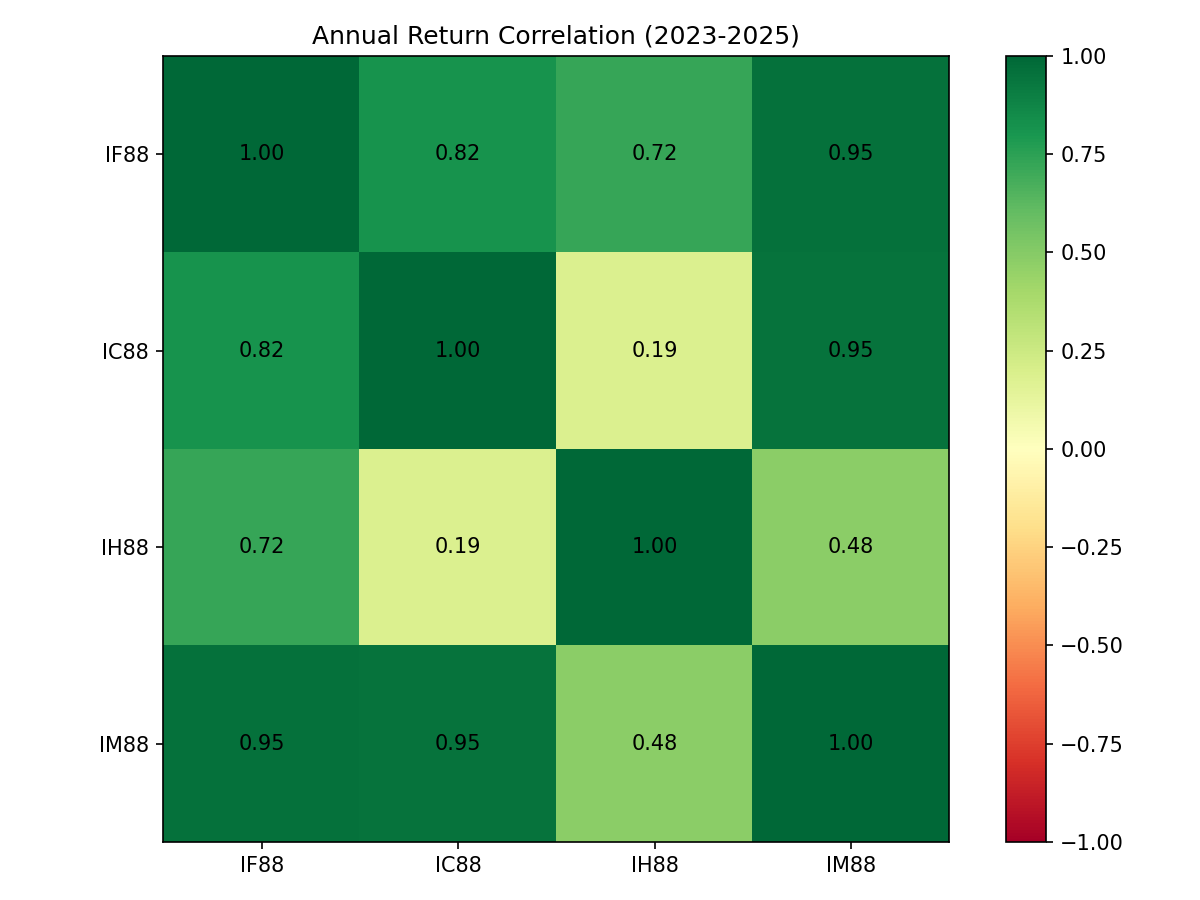
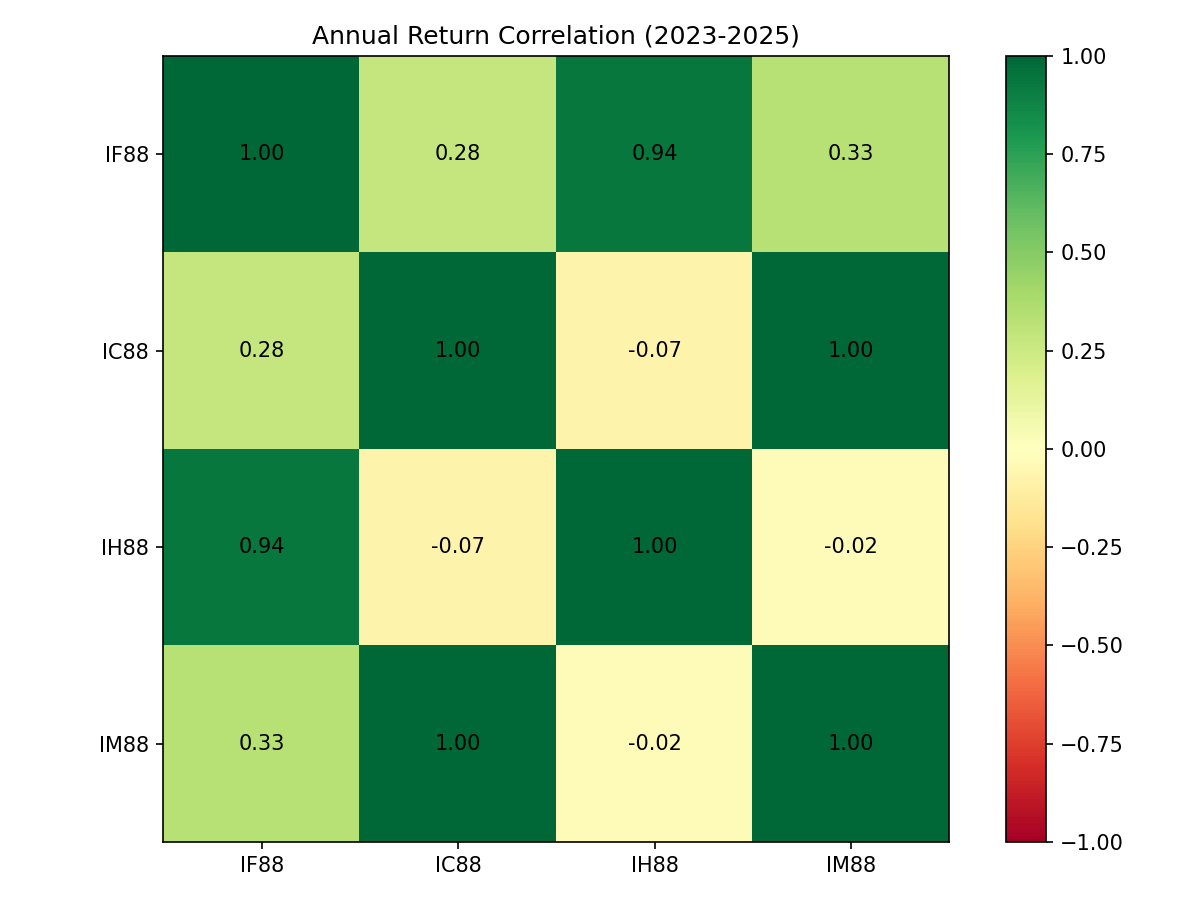
docs: update LDT CN index futures deep dive v6 (plateau + ensemble)

diff --git a/wiki/ldt_cn_index_futures_2015.md b/wiki/ldt_cn_index_futures_2015.md
@@ -1,6 +1,6 @@
 # LDT 在四大股指期货上的深度挖掘报告（IF88/IC88/IH88/IM88）
 
-> **Report Date**: 2026-06-27 20:32
+> **Report Date**: 2026-06-28 13:03
 > **Strategy**: LimitedDualThrustStrategy (LDT)
 > **Symbols**: IF88.CFFEX, IC88.CFFEX, IH88.CFFEX, IM88.CFFEX
 > **Period**: 2015-01-01 ~ 2025-12-31 (Rolling WFO) + 2026-01-01 ~ 2026-06-25 (Forward Test)
@@ -17,18 +17,18 @@
 
 | 品种 | IS Sharpe | Rolling Avg Test Sharpe | Concat OOS Sharpe | Deployable | 2026 Forward Sharpe |
 |------|-----------|-------------------------|-------------------|------------|---------------------|
-| IF88 | 1.54 | 0.68 | 0.75 | True | -1.60 |
-| IC88 | 1.70 | 0.30 | 0.53 | False | 0.38 |
-| IH88 | 1.13 | 0.31 | 0.37 | True | -2.04 |
-| IM88 | 1.77 | 0.56 | 0.46 | True | 0.37 |
+| IF88 | 1.54 | 0.88 | 0.91 | True | -1.60 |
+| IC88 | 1.70 | 0.59 | 0.81 | True | 1.18 |
+| IH88 | 1.13 | 0.38 | 0.45 | True | -2.04 |
+| IM88 | 1.77 | 0.36 | 0.26 | True | 0.37 |
 
 ### 组合效应
 
 | 组合 | 2023-2025 年均收益 | 年化波动 | 收益/波动 | 2026 前向收益 |
 |------|-------------------|----------|-----------|---------------|
-| IC+IM | 8.11% | 12.27% | 0.66 | 3.07% |
-| IF+IC+IH+IM | 4.75% | 9.34% | 0.51 | -0.87% |
-| IF+IH | 1.40% | 8.31% | 0.17 | -4.80% |
+| IC+IM | 17.30% | 25.76% | 0.67 | 5.23% |
+| IF+IC+IH+IM | 11.26% | 16.87% | 0.67 | 0.22% |
+| IF+IH | 5.23% | 18.28% | 0.29 | -4.80% |
 
 ---
 
@@ -59,84 +59,84 @@
 | 指标 | 数值 |
 |------|------|
 | 窗口数 | 8 |
-| WFE | 0.40 |
+| WFE | 0.58 |
 | Consistency | 87.5% |
-| Avg Test Sharpe | 0.68 |
-| Concatenated OOS Sharpe | 0.75 |
-| 过拟合风险 | moderate |
+| Avg Test Sharpe | 0.88 |
+| Concatenated OOS Sharpe | 0.91 |
+| 过拟合风险 | low |
 | Deployable | **True** |
 
 | 窗口 | Test 期 | Test Sharpe | Test Return | Test Trades |
 |------|---------|-------------|-------------|---------------|
-| W1 | 2017-12-31 ~ 2018-12-31 | 0.62 | 5.54% | 1032 |
-| W2 | 2018-12-31 ~ 2019-12-31 | 1.24 | 12.97% | 1254 |
-| W3 | 2019-12-31 ~ 2020-12-30 | 0.60 | 7.59% | 876 |
-| W4 | 2020-12-31 ~ 2021-12-31 | 0.83 | 9.08% | 544 |
-| W5 | 2021-12-31 ~ 2022-12-31 | 1.48 | 13.25% | 534 |
-| W6 | 2022-12-31 ~ 2023-12-31 | 0.31 | 2.33% | 404 |
-| W7 | 2023-12-31 ~ 2024-12-30 | 1.35 | 13.20% | 658 |
-| W8 | 2024-12-31 ~ 2025-12-31 | -1.03 | -7.18% | 430 |
+| W1 | 2017-12-31 ~ 2018-12-31 | 1.44 | 21.33% | 650 |
+| W2 | 2018-12-31 ~ 2019-12-31 | 0.76 | 20.14% | 1590 |
+| W3 | 2019-12-31 ~ 2020-12-30 | 0.59 | 15.19% | 876 |
+| W4 | 2020-12-31 ~ 2021-12-31 | 0.97 | 22.55% | 656 |
+| W5 | 2021-12-31 ~ 2022-12-31 | 1.79 | 34.62% | 648 |
+| W6 | 2022-12-31 ~ 2023-12-31 | 1.15 | 18.04% | 476 |
+| W7 | 2023-12-31 ~ 2024-12-30 | 1.36 | 26.40% | 658 |
+| W8 | 2024-12-31 ~ 2025-12-31 | -1.05 | -14.37% | 430 |
 ### IC88
 
 | 指标 | 数值 |
 |------|------|
 | 窗口数 | 8 |
-| WFE | 0.16 |
+| WFE | 0.45 |
 | Consistency | 62.5% |
-| Avg Test Sharpe | 0.30 |
-| Concatenated OOS Sharpe | 0.53 |
+| Avg Test Sharpe | 0.59 |
+| Concatenated OOS Sharpe | 0.81 |
 | 过拟合风险 | moderate |
-| Deployable | **False** |
+| Deployable | **True** |
 
 | 窗口 | Test 期 | Test Sharpe | Test Return | Test Trades |
 |------|---------|-------------|-------------|---------------|
-| W1 | 2017-12-31 ~ 2018-12-31 | -0.70 | -7.03% | 978 |
-| W2 | 2018-12-31 ~ 2019-12-31 | 0.35 | 3.94% | 1328 |
-| W3 | 2019-12-31 ~ 2020-12-30 | 2.77 | 38.50% | 1304 |
-| W4 | 2020-12-31 ~ 2021-12-31 | -2.72 | -29.44% | 878 |
-| W5 | 2021-12-31 ~ 2022-12-31 | 0.82 | 12.99% | 1116 |
-| W6 | 2022-12-31 ~ 2023-12-31 | -0.55 | -3.61% | 420 |
-| W7 | 2023-12-31 ~ 2024-12-30 | 2.25 | 33.27% | 662 |
-| W8 | 2024-12-31 ~ 2025-12-31 | 0.15 | 1.62% | 396 |
+| W1 | 2017-12-31 ~ 2018-12-31 | -0.37 | -9.29% | 1500 |
+| W2 | 2018-12-31 ~ 2019-12-31 | 0.10 | 2.23% | 2106 |
+| W3 | 2019-12-31 ~ 2020-12-30 | 2.70 | 77.01% | 1304 |
+| W4 | 2020-12-31 ~ 2021-12-31 | -2.25 | -43.53% | 618 |
+| W5 | 2021-12-31 ~ 2022-12-31 | 1.51 | 34.91% | 930 |
+| W6 | 2022-12-31 ~ 2023-12-31 | -0.54 | -7.22% | 420 |
+| W7 | 2023-12-31 ~ 2024-12-30 | 2.24 | 66.53% | 662 |
+| W8 | 2024-12-31 ~ 2025-12-31 | 1.32 | 23.93% | 828 |
 ### IH88
 
 | 指标 | 数值 |
 |------|------|
 | 窗口数 | 8 |
-| WFE | 0.36 |
+| WFE | 0.38 |
 | Consistency | 87.5% |
-| Avg Test Sharpe | 0.31 |
-| Concatenated OOS Sharpe | 0.37 |
+| Avg Test Sharpe | 0.38 |
+| Concatenated OOS Sharpe | 0.45 |
 | 过拟合风险 | moderate |
 | Deployable | **True** |
 
 | 窗口 | Test 期 | Test Sharpe | Test Return | Test Trades |
 |------|---------|-------------|-------------|---------------|
-| W1 | 2017-12-31 ~ 2018-12-31 | 1.03 | 5.03% | 672 |
-| W2 | 2018-12-31 ~ 2019-12-31 | 0.92 | 6.32% | 520 |
-| W3 | 2019-12-31 ~ 2020-12-30 | 0.58 | 4.36% | 540 |
-| W4 | 2020-12-31 ~ 2021-12-31 | 0.34 | 3.77% | 644 |
-| W5 | 2021-12-31 ~ 2022-12-31 | 0.17 | 1.33% | 846 |
-| W6 | 2022-12-31 ~ 2023-12-31 | 0.96 | 5.93% | 638 |
-| W7 | 2023-12-31 ~ 2024-12-30 | 0.41 | 2.80% | 758 |
-| W8 | 2024-12-31 ~ 2025-12-31 | -1.97 | -8.68% | 262 |
+| W1 | 2017-12-31 ~ 2018-12-31 | 1.03 | 10.06% | 672 |
+| W2 | 2018-12-31 ~ 2019-12-31 | 1.20 | 17.38% | 604 |
+| W3 | 2019-12-31 ~ 2020-12-30 | 0.54 | 10.73% | 834 |
+| W4 | 2020-12-31 ~ 2021-12-31 | 0.36 | 8.04% | 682 |
+| W5 | 2021-12-31 ~ 2022-12-31 | 0.36 | 5.70% | 886 |
+| W6 | 2022-12-31 ~ 2023-12-31 | 1.09 | 11.86% | 764 |
+| W7 | 2023-12-31 ~ 2024-12-30 | 0.50 | 6.79% | 638 |
+| W8 | 2024-12-31 ~ 2025-12-31 | -2.01 | -17.36% | 262 |
 ### IM88
 
 | 指标 | 数值 |
 |------|------|
 | 窗口数 | 3 |
-| WFE | 0.18 |
-| Consistency | 100.0% |
-| Avg Test Sharpe | 0.56 |
-| Concatenated OOS Sharpe | 0.46 |
+| WFE | 0.06 |
+| Consistency | 66.7% |
+| Avg Test Sharpe | 0.36 |
+| Concatenated OOS Sharpe | 0.26 |
 | 过拟合风险 | moderate |
 | Deployable | **True** |
 
 | 窗口 | Test 期 | Test Sharpe | Test Return | Test Trades |
 |------|---------|-------------|-------------|---------------|
-| W6 | 2022-12-31 ~ 2023-12-31 | 0.41 | 3.94% | 388 |
-| W7 | 2023-12-31 ~ 2024-12-30 | 1.15 | 11.20% | 440 |
-| W8 | 2024-12-31 ~ 2025-12-31 | 0.13 | 2.24% | 1040 |
+| W6 | 2022-12-31 ~ 2023-12-31 | -0.24 | -6.31% | 586 |
+| W7 | 2023-12-31 ~ 2024-12-30 | 1.18 | 22.41% | 440 |
+| W8 | 2024-12-31 ~ 2025-12-31 | 0.14 | 4.48% | 1040 |
 
 ![WFO Window Sharpe](ldt_cn_index_futures_2015/wfo_window_sharpe.png)
 
@@ -146,9 +146,9 @@
 
 | 年份 | IF88 | IC88 | IH88 | IM88 |
 |------|------|------|------|------|
-| 2023 | 2.33% | -3.61% | 5.93% | 3.94% |
-| 2024 | 13.20% | 33.27% | 2.80% | 11.20% |
-| 2025 | -7.18% | 1.62% | -8.68% | 2.24% |
+| 2023 | 18.04% | -7.22% | 11.86% | -6.31% |
+| 2024 | 26.40% | 66.53% | 6.79% | 22.41% |
+| 2025 | -14.37% | 23.93% | -17.36% | 4.48% |
 
 ![Correlation Matrix](ldt_cn_index_futures_2015/correlation_matrix.png)
 
@@ -166,7 +166,7 @@
 | 品种 | Sharpe | Return | Max DD | Trades |
 |------|--------|--------|--------|--------|
 | IF88 | -1.60 | -5.34% | -9.02% | 204 |
-| IC88 | 0.38 | 2.35% | -5.65% | 212 |
+| IC88 | 1.18 | 6.67% | -8.94% | 464 |
 | IH88 | -2.04 | -4.26% | -6.84% | 122 |
 | IM88 | 0.37 | 3.79% | -9.87% | 558 |
 

diff --git a/index.md b/index.md
@@ -52,6 +52,7 @@
     39|
     40|## 📥 最新录入
 
+- 2026-06-28: LDT 在四大股指期货上的深度挖掘 v6（参数平原选择 + Top-N 集成） — [[ldt_cn_index_futures_2015]]
 - 2026-06-26: CtaTrendStrategy 趋势品种（T/RB/I/J）验证 — [[CtaTrend_Trend_Universe_Validation_20260626]]
 - 2026-06-26: CtaTrendStrategy Expanding vs Rolling 对比 — [[CtaTrend_Expanding_vs_Rolling_Comparison_20260626]]
 - 2026-06-26: CtaTrendStrategy CN 期货深度挖掘（rolling + 扩大参数） — [[CtaTrend_CN_Futures_Deep_Mine_Rolling_20260626]]
@@ -521,7 +522,7 @@ cta_developer 中的策略代码资产与批量挖掘结果。
    324|
    325|
 ## 最新录入
-- [LDT 在四大股指期货上的深度挖掘（IF88/IC88/IH88/IM88）](wiki/ldt_cn_index_futures_2015.md) — 2026-06-27 15:25
+- [LDT 在四大股指期货上的深度挖掘 v6（参数平原选择 + Top-N 集成）](wiki/ldt_cn_index_futures_2015.md) — 2026-06-28
 - [LDT 在 IF88/IC88 上的深度挖掘（2015-2025）](wiki/ldt_if_ic_2015_deep_dive.md) — 2026-06-26 14:34
 - [[CtaTrend_CN_Futures_Deep_Mine_Rolling_20260626|CtaTrend CN 期货深度挖掘（rolling + 扩大参数）]] (2026-06-26)
 - [[CtaTrend_CN_Futures_Deep_Mine_20260626|CtaTrend CN 期货深度挖掘（扩大参数）]] (2026-06-26)